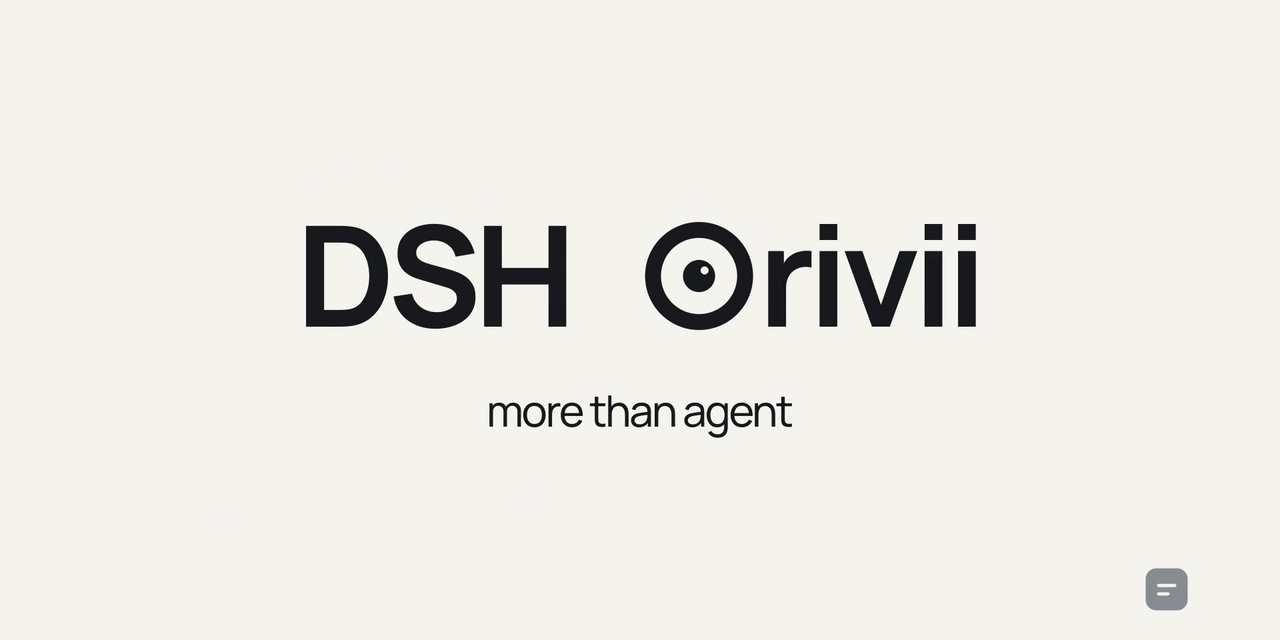
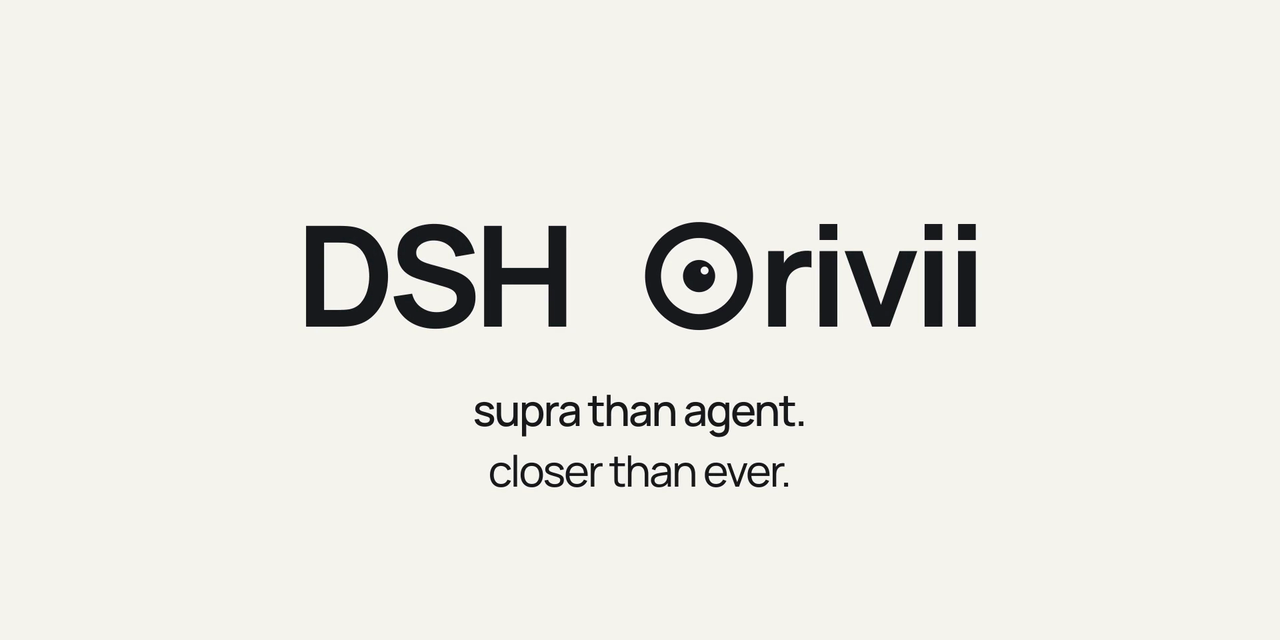
media: refresh social preview from the 60-second film

Changed region(s): [[0.375, 0.7188, 0.625, 0.7812], [0.375, 0.625, 0.625, 0.6875], [0.875, 0.875, 0.9375, 0.9688]]

diff --git a/media/README.md b/media/README.md
@@ -3,7 +3,7 @@
 - `orivii-film.mp4`：30 秒、1080p60 宣传动画，配有 Csus4/G7 和声的原创音乐。
 - `preview.gif`：README 首屏短循环；点击观看完整视频。
 - `cover.png`、`expressions.png`、`memory.png`：从同一部动画提取的封面与场景图。
-- `social-preview.png`：从影片第 28 秒品牌定格提取的 1280×640 PNG，适用于 GitHub 仓库的 Social preview；画面居中裁切，未拉伸角色。
+- `social-preview.png`：从新版 60 秒宣传片第 59 秒品牌定格提取的 1280×640 PNG，包含完整的两行片尾标语，适用于 GitHub 仓库的 Social preview；画面居中裁切，未拉伸角色。
 
 动画、对话和构图为本项目制作的演示素材；它不是产品实际操作录屏，也不包含真实用户聊天。产品能力以 README 的已实现清单为准，未来计划单独列在 UPDATES.md。
 
